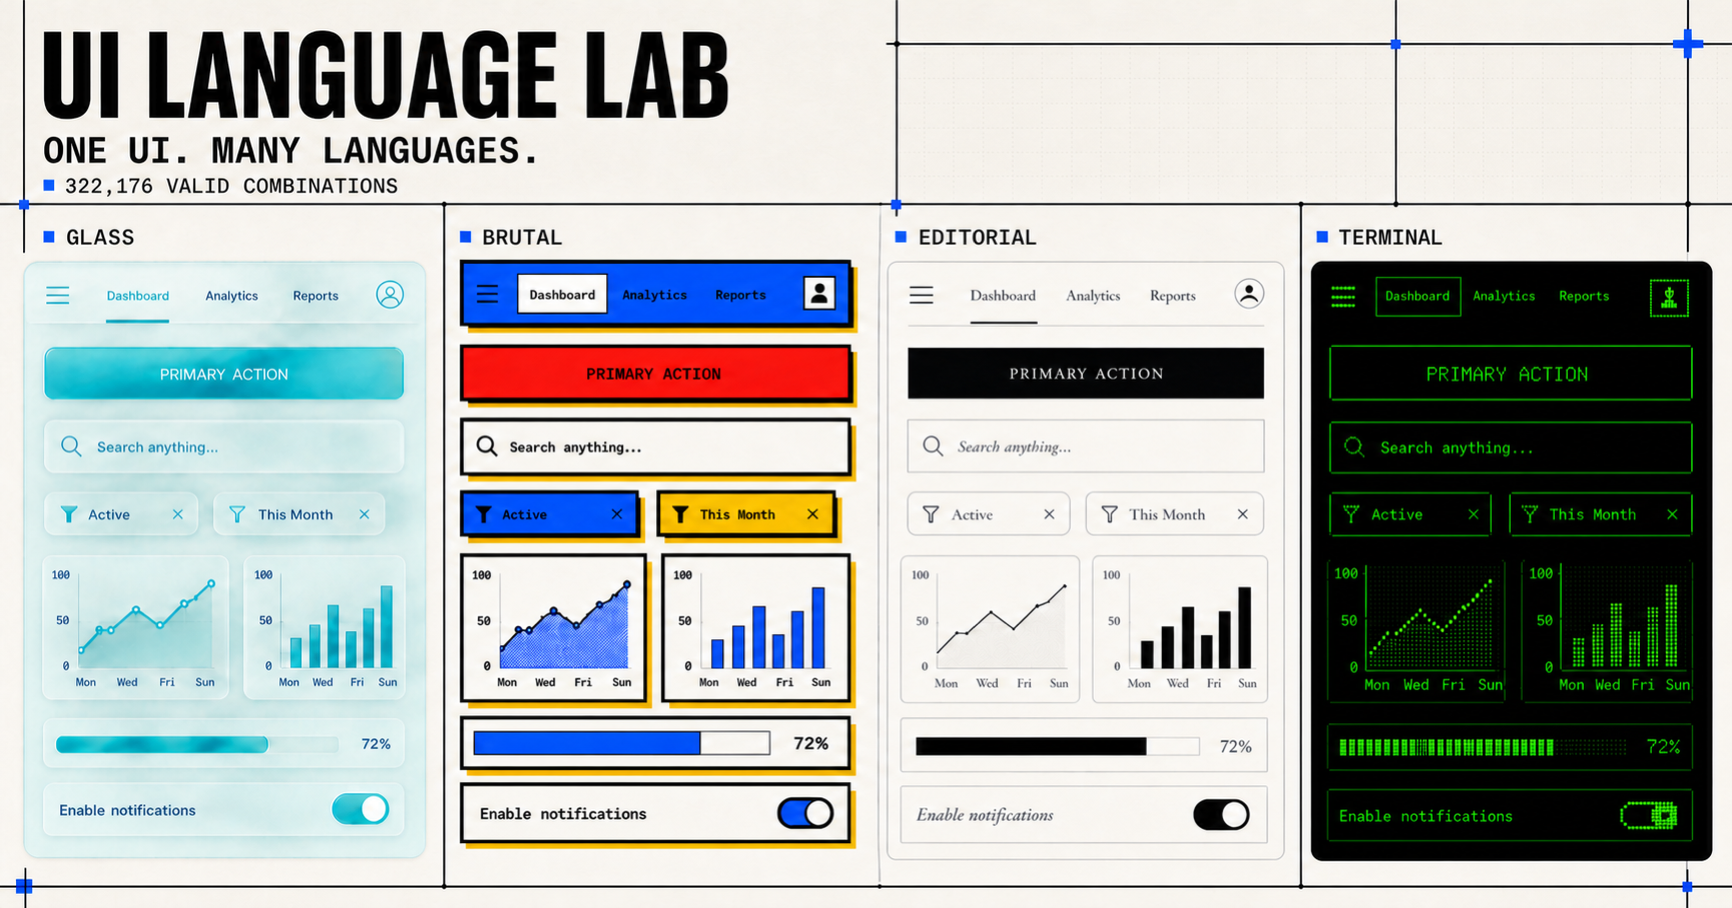
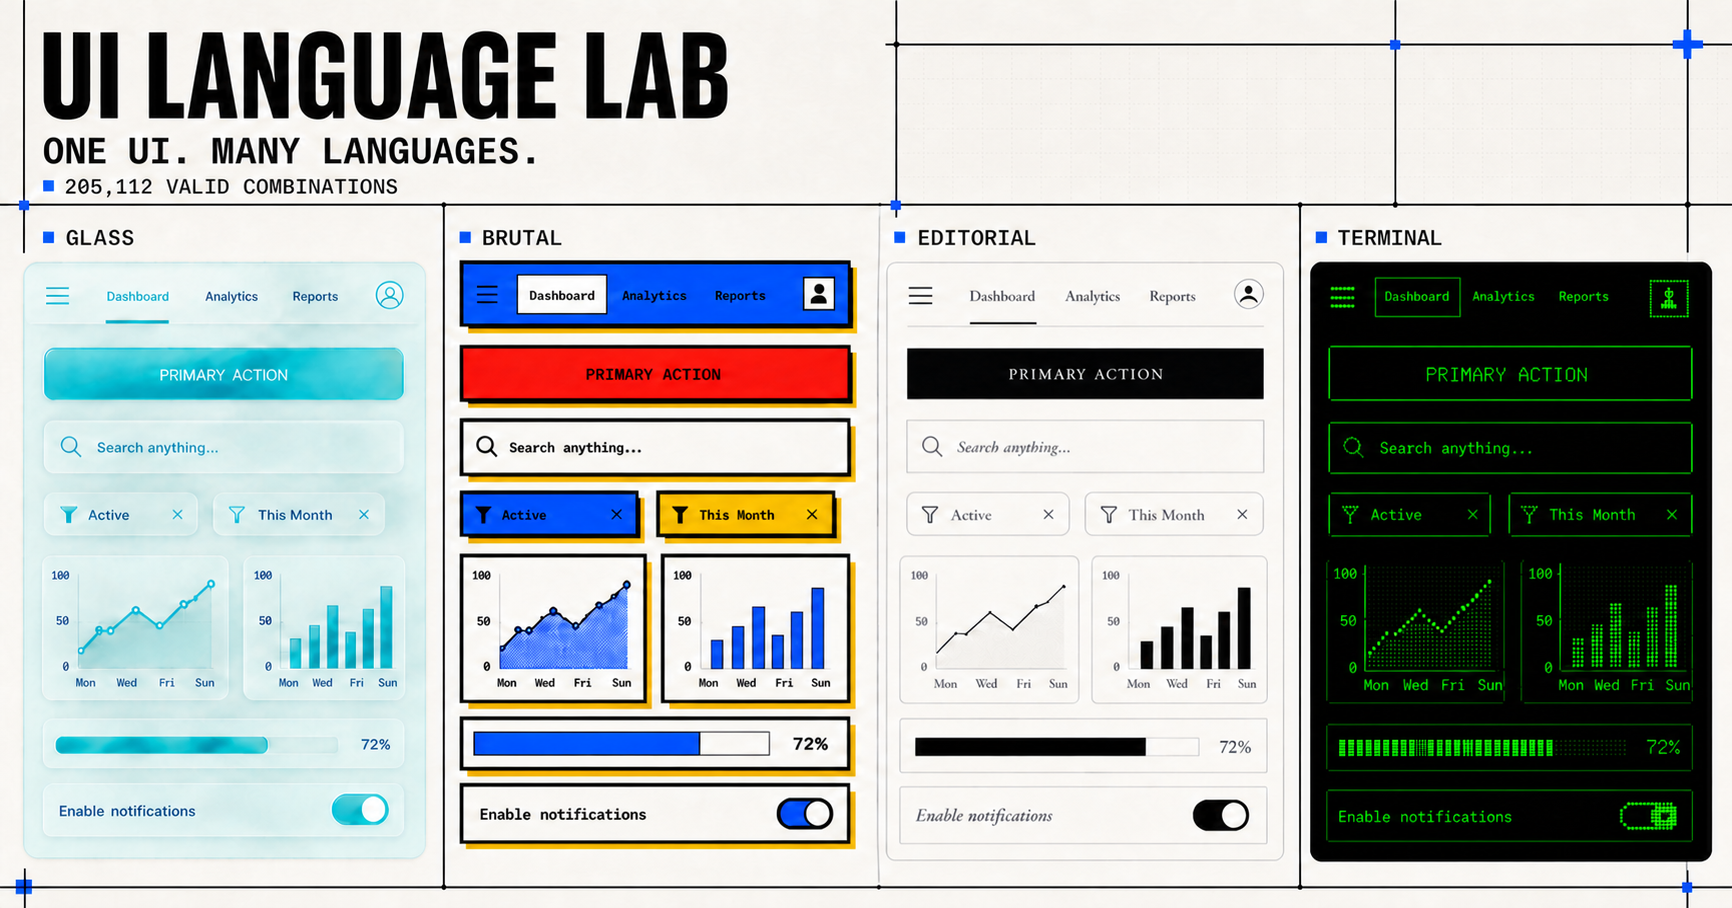
Conditionally show Latin typography control

diff --git a/app/StyleLab.tsx b/app/StyleLab.tsx
@@ -16,7 +16,6 @@ import {
   axes,
   axisKeys,
   axisMeta,
-  combinationCount,
   defaultSelection,
   getOption,
   getOptionNote,
@@ -30,6 +29,7 @@ import {
 } from "./style-data";
 import {
   createExperienceUrl,
+  experienceCombinationCount,
   getVisibleAxisKeys,
   parseExperienceHash,
   serializeExperienceHash,
@@ -92,7 +92,7 @@ const labCopy = {
     pageNav: "페이지 바로가기",
     introKicker: "인터랙티브 UI 레퍼런스",
     title: ["디자인 언어를 조합하고", "전체 시스템을 확인하세요."],
-    intro: "서로 호환되는 열 개의 층위를 선택하면 같은 UI가 즉시 달라집니다. 영문·한글 서체 조합과 차트부터 내비게이션, 페이지 리듬까지 한 화면에서 비교하세요.",
+    intro: "서로 호환되는 디자인 층위를 선택하면 같은 UI가 즉시 달라집니다. 영문·한글 서체 조합과 차트부터 내비게이션, 페이지 리듬까지 한 화면에서 비교하세요.",
     introOnly: "서로 호환되는 여덟 개의 층위를 선택하면 같은 UI가 즉시 달라집니다. 한글 서체와 차트부터 내비게이션, 페이지 리듬까지 한 화면에서 비교하세요.",
     explore: "아래에서 실제 조합 살펴보기",
     count: "검증된 조합",
@@ -593,7 +593,10 @@ export function StyleLab() {
   const t = labCopy[language];
 
   const currentPreset = useMemo(() => presets.find((preset) => sameSelection(preset.selection, selection)), [selection]);
-  const visibleAxisKeys = useMemo(() => getVisibleAxisKeys(language, copyMode), [copyMode, language]);
+  const visibleAxisKeys = useMemo(
+    () => getVisibleAxisKeys(language, copyMode, selection.fontMode),
+    [copyMode, language, selection.fontMode],
+  );
   const filters = ["All", ...Array.from(new Set(presets.map((preset) => preset.category)))];
   const visiblePresets = presetFilter === "All" ? presets : presets.filter((preset) => preset.category === presetFilter);
 
@@ -642,6 +645,7 @@ export function StyleLab() {
     if (!ready) return;
     function applyHashState() {
       const fromHash = parseExperienceHash(window.location.hash);
+      setActiveAxis(null);
       if (fromHash.selection) setSelection((current) => sameSelection(current, fromHash.selection!) ? current : fromHash.selection!);
       if (fromHash.language) setLanguage(fromHash.language);
       if (fromHash.copyMode) setCopyMode(fromHash.copyMode);
@@ -729,6 +733,7 @@ export function StyleLab() {
       next[axis] = options[Math.floor(Math.random() * options.length)].id;
     }
     setSelection(next);
+    setActiveAxis(null);
     setNotice(t.randomized);
     window.setTimeout(() => setNotice(""), 1600);
   }
@@ -760,6 +765,9 @@ export function StyleLab() {
   }
 
   const aestheticName = language === "en" ? getOption("aesthetic", selection.aesthetic).en : getOption("aesthetic", selection.aesthetic).ko;
+  const activeAxisIndex = activeAxis
+    ? String(visibleAxisKeys.indexOf(activeAxis) + 1).padStart(2, "0")
+    : "";
 
   if (view === "reference") {
     return <main className="reference-view"><FieldNotesSite selection={selection} language={language} copyMode={copyMode} /></main>;
@@ -789,7 +797,7 @@ export function StyleLab() {
       <section className="intro" id="top">
         <div className="intro-kicker"><span>{t.introKicker}</span><i />2026</div>
         <h1>{t.title[0]}<br /><em>{t.title[1]}</em></h1>
-        <div className="intro-side"><p>{language === "ko" && copyMode === "only" ? t.introOnly : t.intro}</p><a className="explore-cta" href="#live-site"><span>↓</span><b>{t.explore}</b></a><div className="intro-count"><strong>{combinationCount(visibleAxisKeys).toLocaleString("en-US")}</strong><span>{t.count}</span></div></div>
+        <div className="intro-side"><p>{language === "ko" && copyMode === "only" ? t.introOnly : t.intro}</p><a className="explore-cta" href="#live-site"><span>↓</span><b>{t.explore}</b></a><div className="intro-count"><strong>{experienceCombinationCount(language, copyMode).toLocaleString("en-US")}</strong><span>{t.count}</span></div></div>
       </section>
 
       <div className="mixer-anchor" id="mixer">
@@ -809,7 +817,7 @@ export function StyleLab() {
 
           {activeAxis && (
             <div className="mixer-popover" data-axis={activeAxis} role="dialog" aria-label={language === "en" ? axisMeta[activeAxis].en : axisMeta[activeAxis].ko}>
-              <header><div><span>{axisMeta[activeAxis].index}</span><b>{language === "en" ? axisMeta[activeAxis].en : axisMeta[activeAxis].ko}</b><small>{language === "en" ? axisMeta[activeAxis].ko : axisMeta[activeAxis].en}</small></div><button type="button" onClick={() => setActiveAxis(null)} aria-label={t.close}>×</button></header>
+              <header><div><span>{activeAxisIndex}</span><b>{language === "en" ? axisMeta[activeAxis].en : axisMeta[activeAxis].ko}</b><small>{language === "en" ? axisMeta[activeAxis].ko : axisMeta[activeAxis].en}</small></div><button type="button" onClick={() => setActiveAxis(null)} aria-label={t.close}>×</button></header>
               {activeAxis !== "aesthetic" && <p className="compatibility-note"><b>{aestheticName}</b> · {t.compat(aestheticName)}</p>}
               <div className="popover-options">
                 {axes[activeAxis].map((option) => {

diff --git a/app/style-data.ts b/app/style-data.ts
@@ -110,17 +110,17 @@ export const axes: Record<AxisKey, Option[]> = {
   ],
 };
 
-export const axisMeta: Record<AxisKey, { index: string; ko: string; en: string }> = {
-  aesthetic: { index: "01", ko: "기초 미학", en: "Aesthetic" },
-  surface: { index: "02", ko: "표면", en: "Surface" },
-  layout: { index: "03", ko: "구성", en: "Layout" },
-  nav: { index: "04", ko: "메뉴 위치", en: "Navigation" },
-  navStyle: { index: "05", ko: "메뉴 표현", en: "Menu Style" },
-  type: { index: "06", ko: "영문 서체", en: "Latin Type" },
-  koType: { index: "07", ko: "한글 서체", en: "Korean Type" },
-  fontMode: { index: "08", ko: "서체 적용", en: "Type Binding" },
-  palette: { index: "09", ko: "색상", en: "Palette" },
-  motion: { index: "10", ko: "움직임", en: "Motion" },
+export const axisMeta: Record<AxisKey, { ko: string; en: string }> = {
+  aesthetic: { ko: "기초 미학", en: "Aesthetic" },
+  surface: { ko: "표면", en: "Surface" },
+  layout: { ko: "구성", en: "Layout" },
+  nav: { ko: "메뉴 위치", en: "Navigation" },
+  navStyle: { ko: "메뉴 표현", en: "Menu Style" },
+  type: { ko: "영문 서체", en: "Latin Type" },
+  koType: { ko: "한글 서체", en: "Korean Type" },
+  fontMode: { ko: "서체 적용", en: "Type Binding" },
+  palette: { ko: "색상", en: "Palette" },
+  motion: { ko: "움직임", en: "Motion" },
 };
 
 export const defaultSelection: Selection = {
@@ -485,12 +485,21 @@ export function normalizeSelection(candidate: Partial<Selection>): Selection {
   return next;
 }
 
-export function combinationCount(activeAxes: readonly AxisKey[] = axisKeys) {
+export function combinationCount(
+  activeAxes: readonly AxisKey[] = axisKeys,
+  fixedValues: Partial<Selection> = {},
+) {
   const countedAxes = dependentAxisKeys.filter((axis) => activeAxes.includes(axis));
   return axes.aesthetic.reduce((total, aesthetic) => {
+    if (fixedValues.aesthetic && fixedValues.aesthetic !== aesthetic.id) return total;
     const rule = getAestheticRule(aesthetic.id);
+    const fixedValueIsInvalid = dependentAxisKeys.some((axis) => {
+      const value = fixedValues[axis];
+      return value !== undefined && !rule.allowed[axis].includes(value);
+    });
+    if (fixedValueIsInvalid) return total;
     return total + countedAxes.reduce(
-      (count, axis) => count * rule.allowed[axis].length,
+      (count, axis) => count * (fixedValues[axis] === undefined ? rule.allowed[axis].length : 1),
       1,
     );
   }, 0);

diff --git a/app/url-state.ts b/app/url-state.ts
@@ -1,6 +1,7 @@
 import {
   axes,
   axisKeys,
+  combinationCount,
   defaultSelection,
   normalizeSelection,
   recommendedSelection,
@@ -25,12 +26,36 @@ export type ParsedExperienceState = {
   view: ExperienceView | null;
 };
 
-export function getVisibleAxisKeys(language: Language, copyMode: KoreanCopyMode) {
-  return axisKeys.filter((axis) => {
+const koreanFirstAxisKeys = [
+  "aesthetic",
+  "surface",
+  "layout",
+  "nav",
+  "navStyle",
+  "koType",
+  "type",
+  "fontMode",
+  "palette",
+  "motion",
+] as const;
+
+export function getVisibleAxisKeys(language: Language, copyMode: KoreanCopyMode, fontMode = "split") {
+  const orderedAxes = language === "ko" ? koreanFirstAxisKeys : axisKeys;
+  return orderedAxes.filter((axis) => {
     if (language === "en") return axis !== "koType" && axis !== "fontMode";
     if (copyMode === "only") return axis !== "type" && axis !== "fontMode";
+    if (axis === "type") return fontMode === "split";
     return true;
   });
+}
+
+export function experienceCombinationCount(language: Language, copyMode: KoreanCopyMode) {
+  if (language !== "ko" || copyMode !== "mixed") {
+    return combinationCount(getVisibleAxisKeys(language, copyMode));
+  }
+
+  return combinationCount(getVisibleAxisKeys("ko", "mixed", "split"), { fontMode: "split" })
+    + combinationCount(getVisibleAxisKeys("ko", "mixed", "koUnified"), { fontMode: "koUnified" });
 }
 
 export function usesBilingualCopy(language: Language, copyMode: KoreanCopyMode) {

diff --git a/app/layout.tsx b/app/layout.tsx
@@ -10,7 +10,7 @@ export const metadata: Metadata = {
   icons: { icon: "/favicon.svg" },
   openGraph: {
     title: "UI Language Lab",
-    description: "One interface, many design languages. Explore up to 322,176 aesthetically compatible full-page combinations.",
+    description: "One interface, many design languages. Explore up to 205,112 aesthetically compatible full-page combinations.",
     type: "website",
     url: "https://tangerooo.github.io/ui-style-lab/",
     images: [{ url: "/ui-style-lab/og.png", width: 1732, height: 908, alt: "UI Language Lab — the same component kit in Glass, Brutal, Editorial, and Terminal styles" }],
@@ -18,7 +18,7 @@ export const metadata: Metadata = {
   twitter: {
     card: "summary_large_image",
     title: "UI Language Lab",
-    description: "One interface, many design languages. Explore up to 322,176 aesthetically compatible full-page combinations.",
+    description: "One interface, many design languages. Explore up to 205,112 aesthetically compatible full-page combinations.",
     images: ["/ui-style-lab/og.png"],
   },
 };

diff --git a/index.html b/index.html
@@ -7,7 +7,7 @@
     <meta name="theme-color" content="#f0eee8" />
     <meta name="description" content="Mix complete interface systems across English, Korean-only, and Korean + English typography modes, then share an agent-ready reference view." />
     <meta property="og:title" content="UI Language Lab" />
-    <meta property="og:description" content="One interface, many design languages. Explore up to 322,176 aesthetically compatible full-page combinations." />
+    <meta property="og:description" content="One interface, many design languages. Explore up to 205,112 aesthetically compatible full-page combinations." />
     <meta property="og:type" content="website" />
     <meta property="og:image" content="./og.png" />
     <title>UI Language Lab</title>

diff --git a/README.md b/README.md
@@ -17,13 +17,13 @@ English is the default interface language. The top language control offers `Engl
 | Layout | 7 | Landing, Bento, Cards, Editorial, Split, Dense Index, Broken Grid |
 | Navigation position | 2 | Top or left rail |
 | Menu style | 3 | Text, icon, or icon + text |
-| Latin type | 8 | Grotesk, humanist, serif, mono, rounded, condensed, slab, pixel |
 | Korean type | 10 | IBM Plex Sans KR, Pretendard, SUIT, Noto Sans KR, Spoqa Han Sans Neo, Nanum Gothic, Gowun Dodum, Jua, Nanum Gothic Coding, Black Han Sans |
+| Latin type | 8 | Grotesk, humanist, serif, mono, rounded, condensed, slab, pixel |
 | Type binding | 2 | Pair Latin and Korean faces by script, or use the selected Korean face for both scripts |
 | Palette | 10 | Monochrome, cobalt, primary, citrus, candy, forest, sunset, noir, aurora, aqua |
 | Motion | 3 | Quiet, subtle, kinetic |
 
-The lab exposes a different number of visually distinct combinations for each content mode: **20,804** in English, **44,024** in Korean-only, and **322,176** in Korean + English. This is not the unrestricted Cartesian product: the selected base aesthetic controls which values are valid in every dependent layer. Incompatible values remain visible but disabled.
+The lab exposes a different number of visually distinct combinations for each content mode: **20,804** in English, **44,024** in Korean-only, and **205,112** in Korean + English. This is not the unrestricted Cartesian product: the selected base aesthetic controls which values are valid in every dependent layer, and Latin type is not counted when Korean Unified makes it visually irrelevant. Incompatible values remain visible but disabled.
 
 ## Bilingual typography
 
@@ -31,9 +31,10 @@ Typography controls follow the content mode so irrelevant axes do not create dup
 
 - `English`: `Latin Type` only.
 - `한국어 only`: `Korean Type` only. The selected Korean face is applied automatically across the canvas.
-- `한국어 + English`: `Latin Type`, `Korean Type`, and `Type Binding` are all available.
+- `한국어 + English`: controls are ordered `Korean Type` → conditional `Latin Type` → `Type Binding`.
   - Korean primary copy is paired with substantial English companion copy across the hero, data, index, story, guides, route, and footer—not just English labels or microcopy.
   - `Korean Type` selects a Hangul-capable web font. Korean serif/Myeongjo faces are intentionally excluded.
+  - `Latin Type` is visible only while `Script Pairing` is selected because it has no visual effect in `Korean Unified`.
   - `Type Binding` chooses between:
     - `Script Pairing`: Latin glyphs use `Latin Type`; Hangul uses `Korean Type`.
     - `Korean Unified`: the selected Korean face renders both Latin and Hangul.
@@ -64,7 +65,7 @@ axes
   → CSS visual system
 ```
 
-`combinationCount(activeAxes)` sums the valid product for each aesthetic and the axes visible in the current content mode. Randomize and presets also pass through the same compatibility rules.
+`combinationCount(activeAxes, fixedValues)` sums the valid product for each aesthetic and supports conditional branches such as split versus unified typography. Randomize and presets also pass through the same compatibility rules.
 
 ## Development
 

diff --git a/AGENTS.md b/AGENTS.md
@@ -51,7 +51,7 @@ app/url-state.ts
 다음을 빠뜨리면 build가 성공해도 조합 모델이 깨진다.
 
 1. `AxisKey`와 `axes`에 layer 추가
-2. `axisMeta`의 index, Korean/English label 추가
+2. `axisMeta`의 Korean/English label 추가. 화면 index는 현재 mode의 visible order에서 동적으로 계산한다.
 3. `defaultSelection`에 기본값 추가
 4. `dependentAxisKeys`에 추가 (`aesthetic` 제외)
 5. 모든 aesthetic의 `defaults`와 `allowed`에 추가
@@ -68,7 +68,7 @@ app/url-state.ts
 - typography control 노출은 content mode에 따라 달라진다.
   - English: `type`만 표시
   - Korean only: `koType`만 표시하고 Korean font를 자동 통합 적용
-  - Korean + English: `type`, `koType`, `fontMode` 모두 표시
+  - Korean + English: `koType`을 먼저 표시하고 `fontMode`를 표시한다. `type`은 `fontMode=split`일 때만 `koType` 다음에 표시한다.
 - `fontMode`는 Korean + English의 script binding 방식이다.
   - `split`: Latin glyph는 `type`, Hangul은 `koType`
   - `koUnified`: 선택한 `koType`으로 Latin과 Hangul 모두 렌더링
@@ -90,7 +90,7 @@ sum(
 )
 ```
 
-- 계산은 반드시 `combinationCount(activeAxes)`를 사용한다.
+- 계산은 반드시 `combinationCount(activeAxes, fixedValues)`를 사용한다. Korean + English는 `split` branch에서는 `type`을 포함하고 `koUnified` branch에서는 제외한 뒤 두 branch를 합산한다.
 - English, Korean only, Korean + English는 보이는 typography axis가 다르므로 각 mode의 distinct count를 별도로 검증한다.
 - 새 option이 일부 aesthetic에만 허용되면 해당 미학의 product만 증가해야 한다.
 - 다음 위치의 숫자가 서로 같아야 한다.
